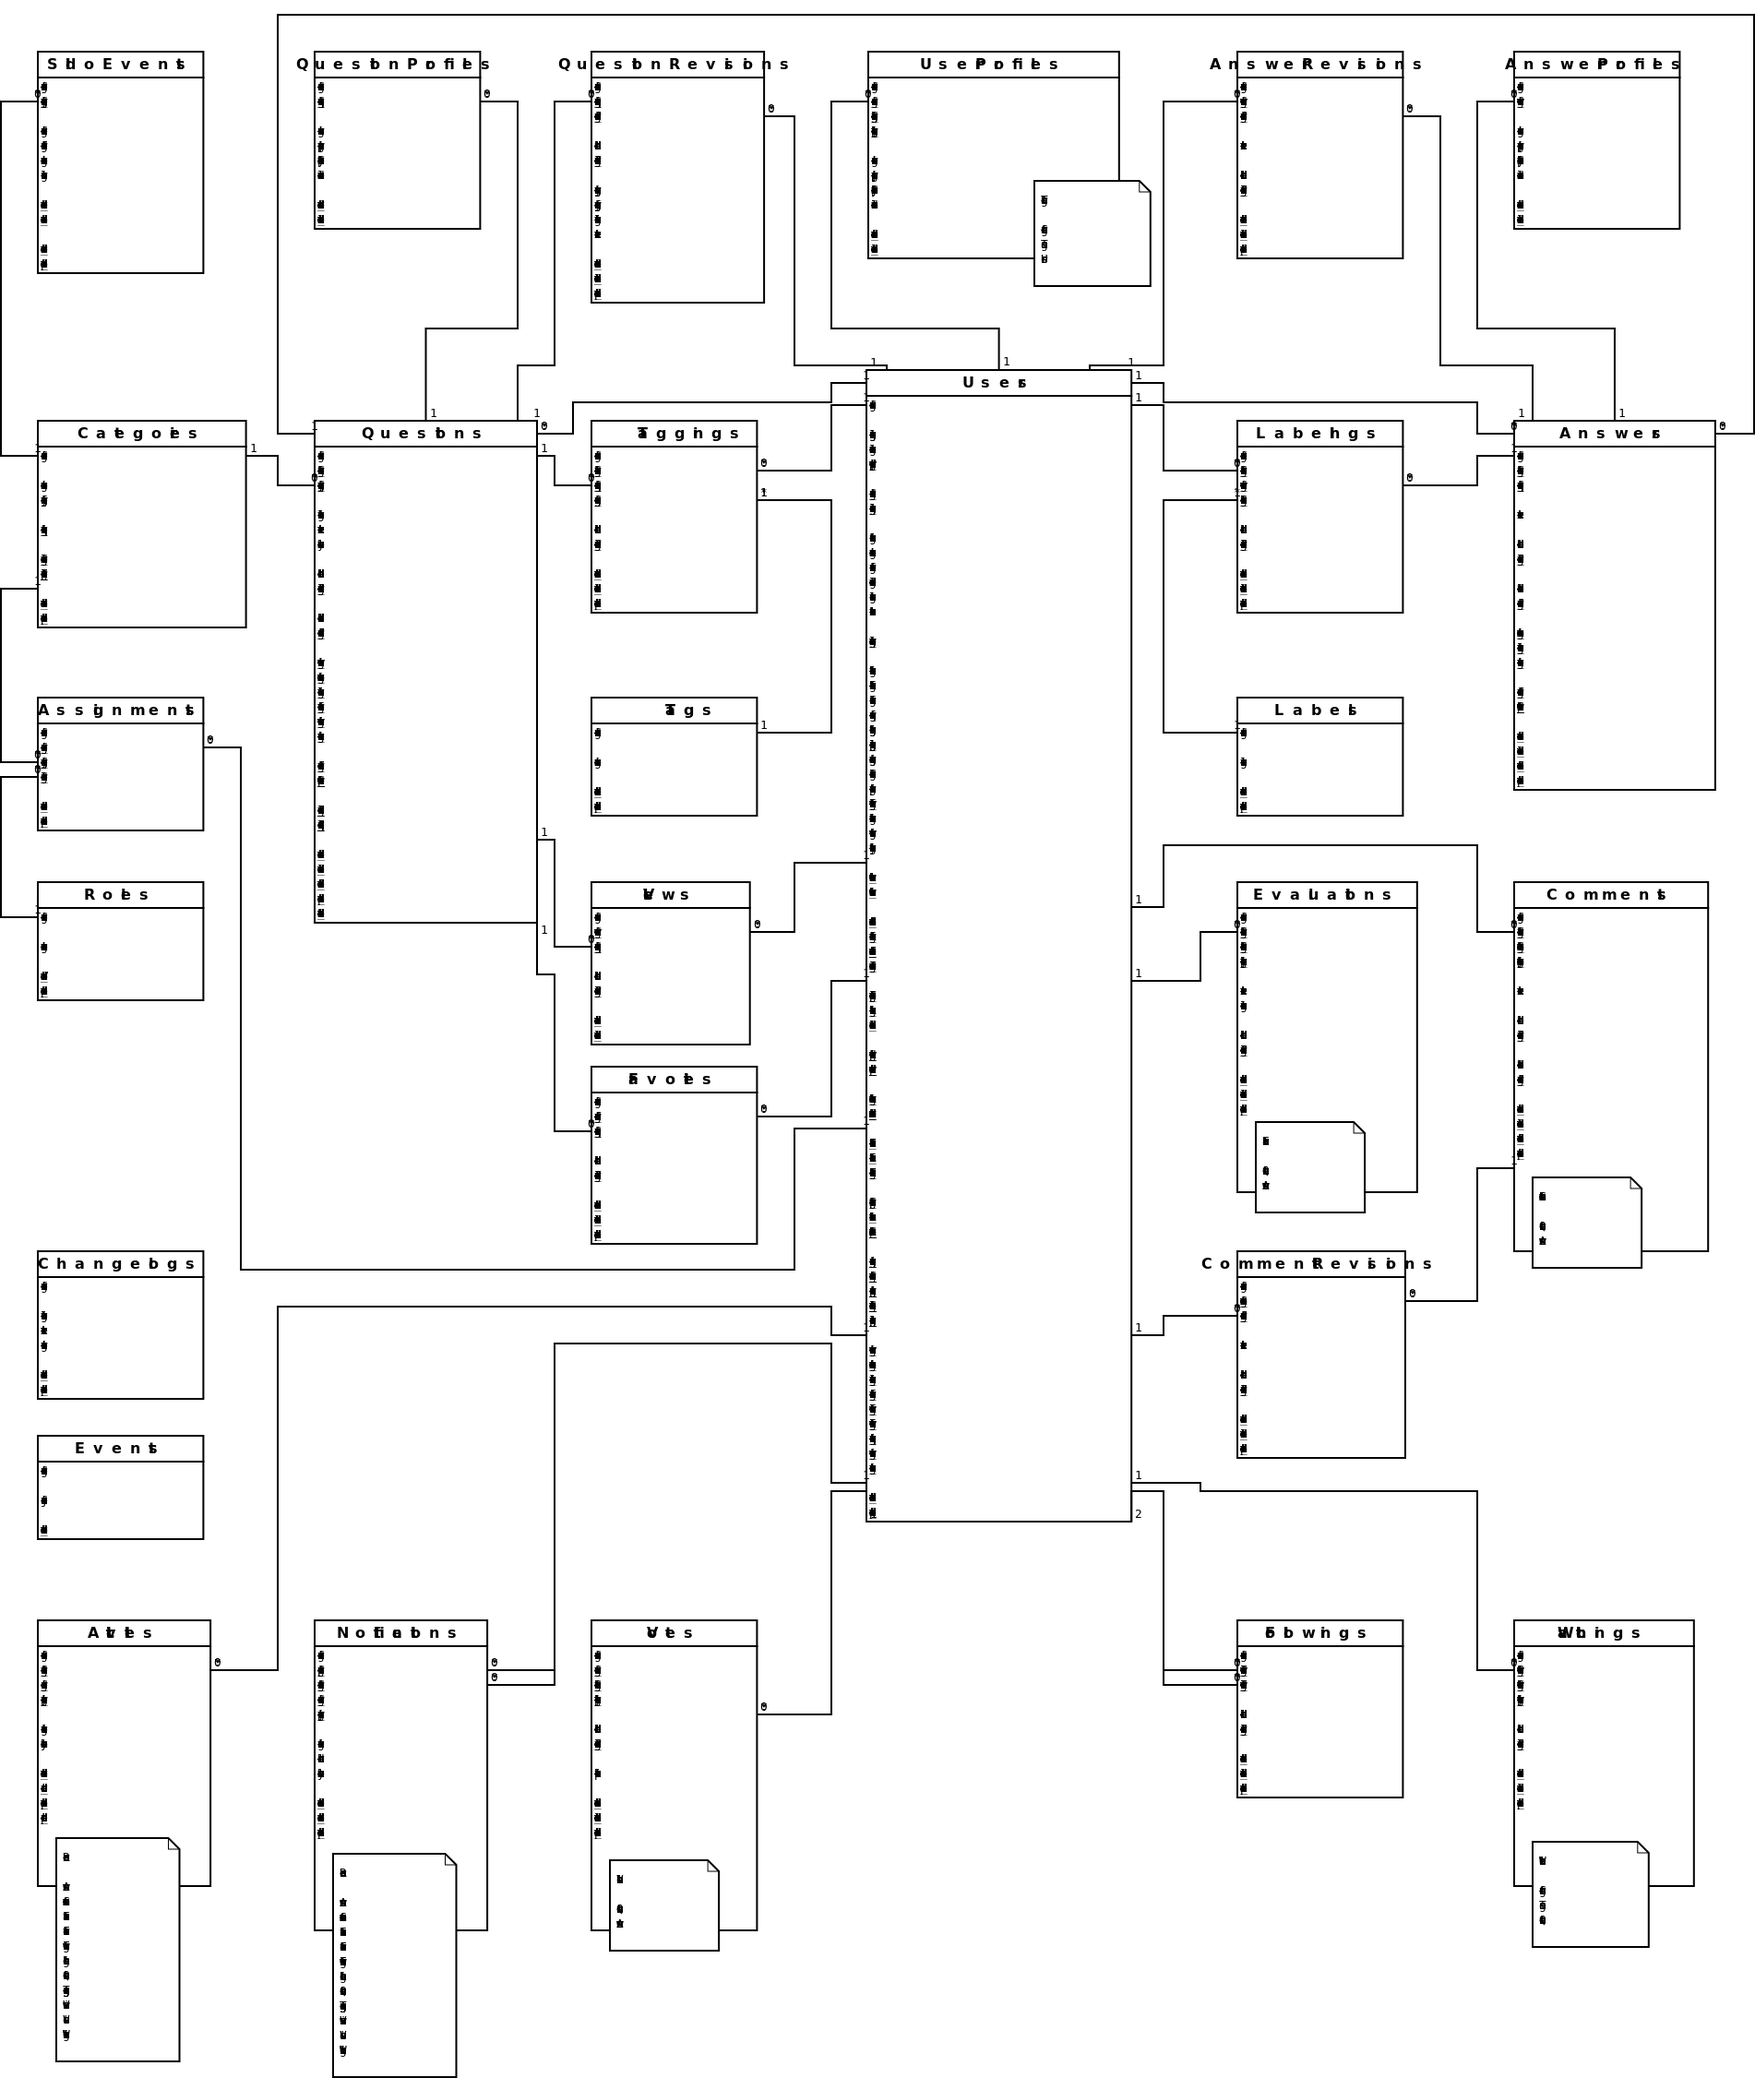
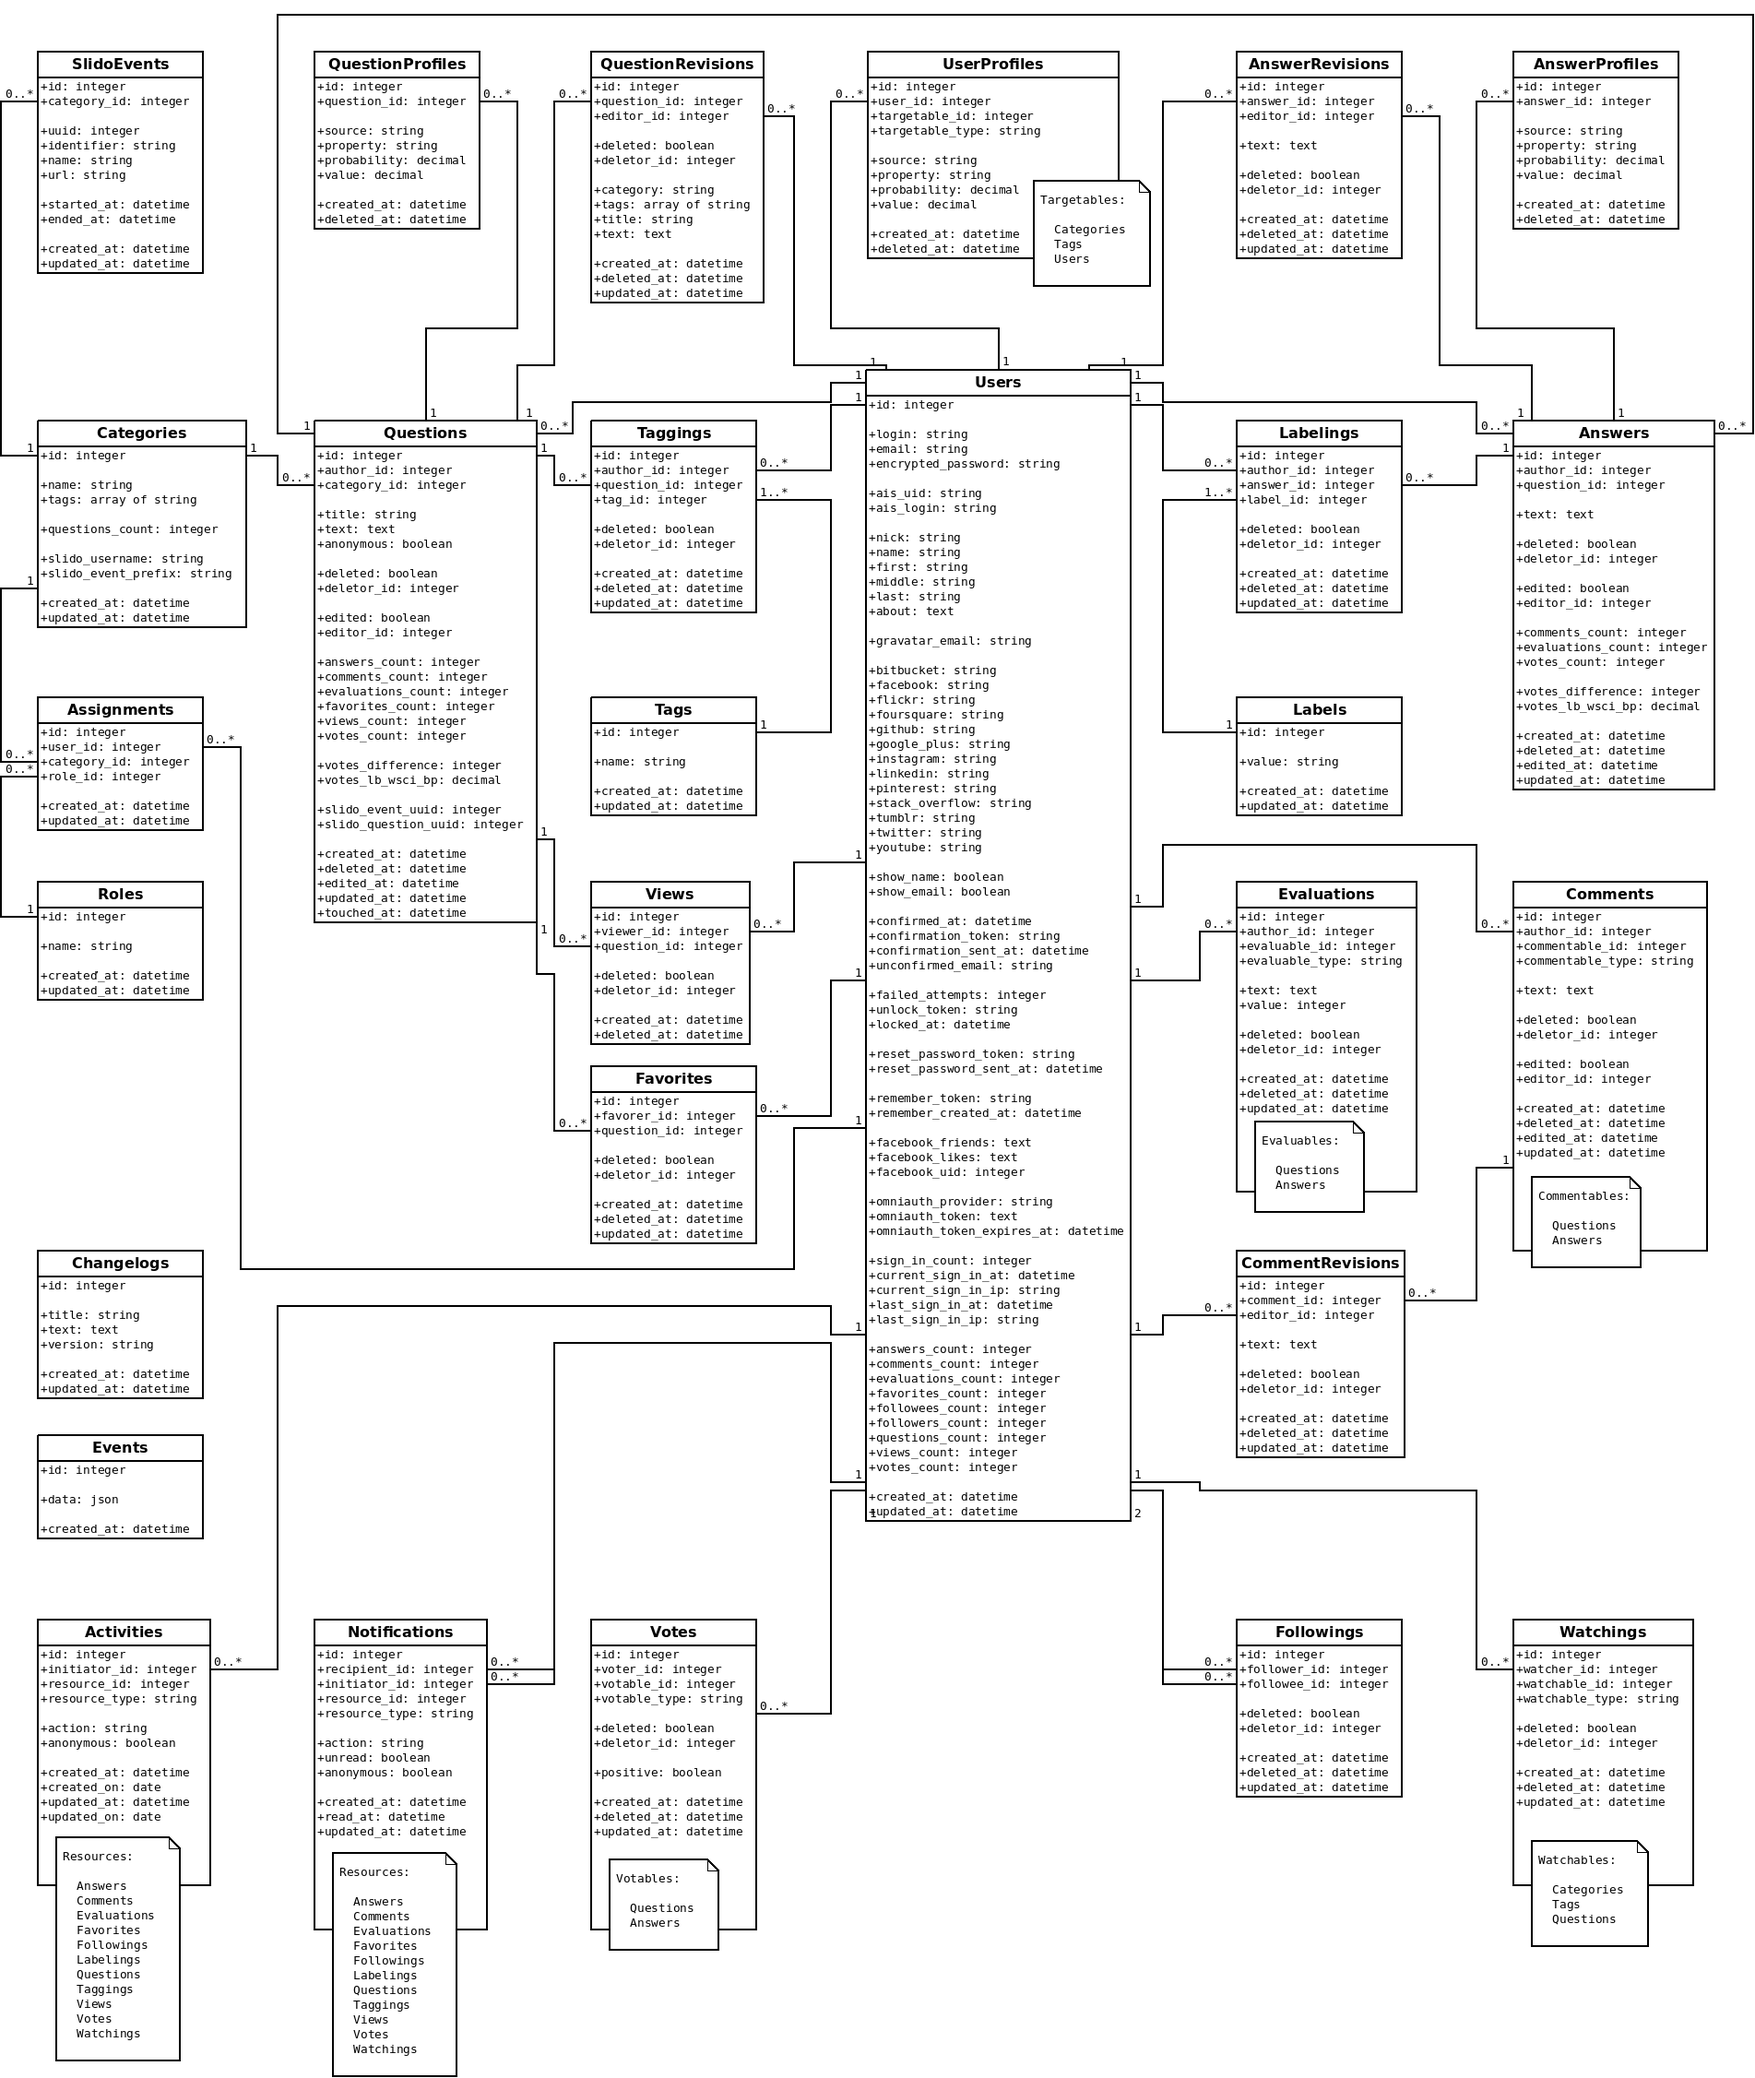
Fix dia image and reformat code

diff --git a/app/controllers/users_controller.rb b/app/controllers/users_controller.rb
@@ -66,7 +66,6 @@ class UsersController < ApplicationController
     @facebook_user = FbGraph::User.me( @auth.credentials.token )
     @friends = @facebook_user.friends
     @likes = @facebook_user.likes
-    binding.pry
 
     @user.from_omniauth(@auth, @friends, @likes)
     redirect_to root_path

diff --git a/db/migrate/20141023161800_add_facebook_friends_and_facebook_likes_to_user.rb b/db/migrate/20141023161800_add_facebook_friends_and_facebook_likes_to_user.rb
@@ -1,6 +1,6 @@
 class AddFacebookFriendsAndFacebookLikesToUser < ActiveRecord::Migration
   def change
     add_column :users, :facebook_friends, :text
-    add_column :users, :facebook_likes, :text
+    add_column :users, :facebook_likes,   :text
   end
 end
